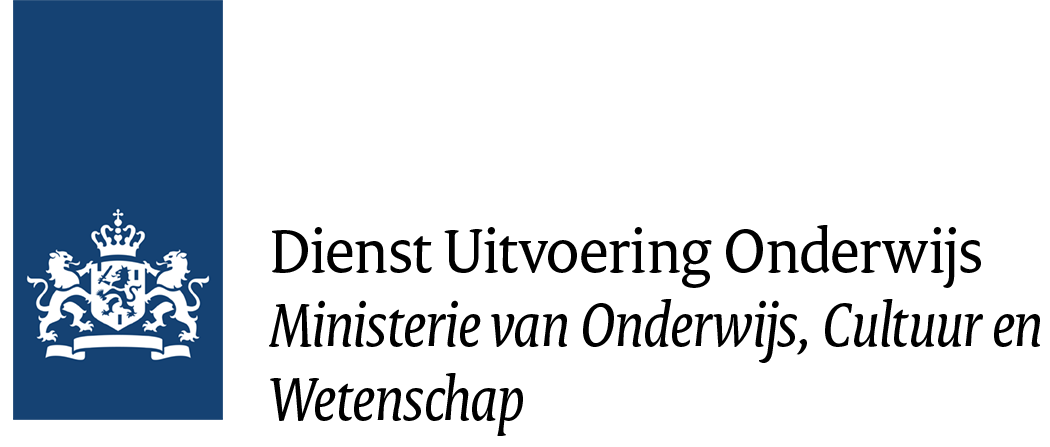
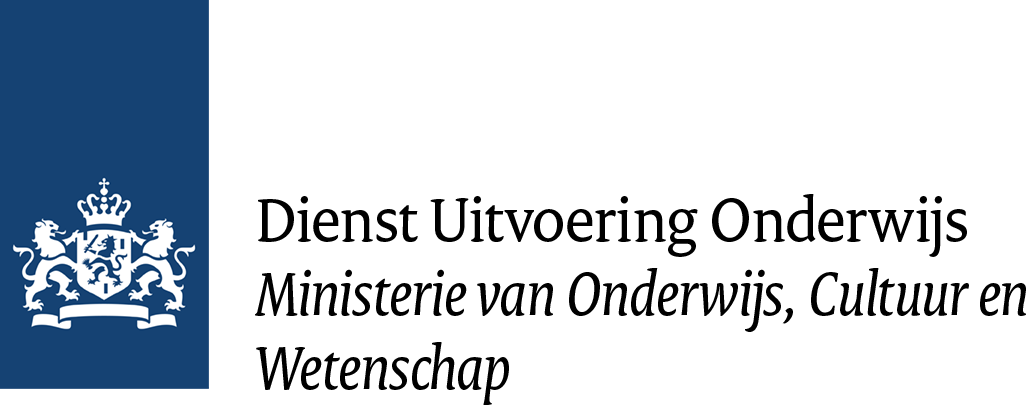
Added DUO as hoofdsponsor

diff --git a/index.html b/index.html
@@ -273,16 +273,21 @@
                 </div>
             </div>
             <div class="row">
-                <div class="col-sm-3">
+                <div class="col-sm-4">
+                    <a href="https://www.duo.nl/" target="_blank" class="partner-box partner-box-duo"></a>
+                </div>
+                <div class="col-sm-4">
                     <a href="https://www.gasunie.nl/" target="_blank" class="partner-box partner-box-gasunie"></a>
                 </div>
-                <div class="col-sm-3">
+                <div class="col-sm-4">
                     <a href="https://www.kpn.com/" target="_blank" class="partner-box partner-box-kpn"></a>
                 </div>
-                <div class="col-sm-3">
+            </div>
+            <div class="row">
+                <div class="col-sm-6">
                     <a href="https://www.ordina.nl/" target="_blank" class="partner-box partner-box-ordina"></a>
                 </div>
-                <div class="col-sm-3">
+                <div class="col-sm-6">
                     <a href="https://www.xprtz.net/" target="_blank" class="partner-box partner-box-xprtz"></a>
                 </div>
             </div>
@@ -424,8 +429,8 @@
                         In deze sessie duiken we dieper in Azure Bicep en gaan we dieper dan de 101 basis. We richten ons op enkele functies die recent zijn uitgebracht en waardevol zijn bij het werken in grotere teams.
                         <br/><br/>
                         We behandelen Bicep-parameterbestanden, door de gebruiker gedefinieerde typen, de Bicep-registry, bijgewerkte interactie met VS Code, linter- en validatieregels, het eenvoudiger verwijzen naar geheimen in Key Vault, en mogelijk meer!
-                        <br/><br/> 
-                    </p>                        
+                        <br/><br/>
+                    </p>
                 </div>
             </div>
         </div>

diff --git a/assets/css/dnn.css b/assets/css/dnn.css
@@ -113,7 +113,7 @@
 
 .schedule-box-coffee, .schedule-box-dinner, .schedule-box-drinks, .schedule-box-lunch {
   background-size: cover;
-  background-position-y: center;  
+  background-position-y: center;
 }
 .schedule-box-coffee {
   background-image: linear-gradient(rgba(100, 100, 100, 0.7), rgba(100, 100, 100, 0.7)),
@@ -183,6 +183,9 @@
 }
 .partner .partner-box-4dotnet {
   background: url(../images/partner/4DotNet.png) no-repeat center center/contain;
+}
+.partner .partner-box-duo {
+  background: url(../images/partner/DUO.png) no-repeat center center/contain;
 }
 .partner .partner-box-gasunie {
   background: url(../images/partner/Gasunie.png) no-repeat center center/contain;
@@ -375,4 +378,3 @@ p.sponsor-informatie a.ion-information-circled::before {
 .button-container {
   text-align: center;
 }
-
